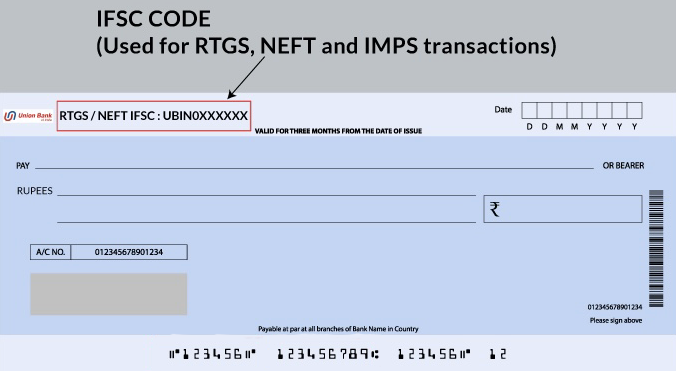
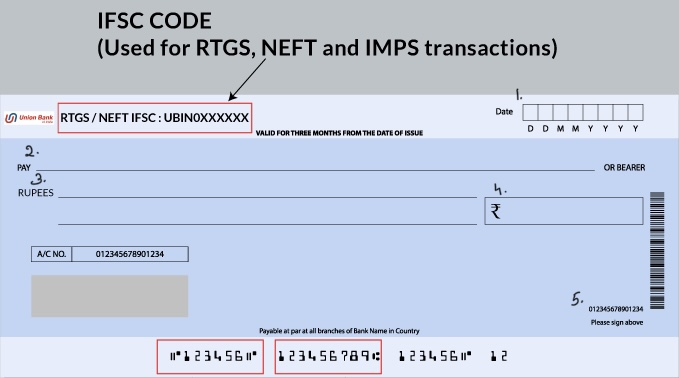
Add files via upload

diff --git a/sketch.js b/sketch.js
@@ -1,5 +1,10 @@
 var gameState = 0
 var input1
+var input2
+var input3
+var input4
+var input5
+var YesOrNo
 function preload() {
   background1 = loadImage("Images/backgroundImage1.jpg")
   startButtonImage = loadImage("Images/StartButton.png")
@@ -44,8 +49,29 @@ function setup() {
   unfilledCheque.addImage(unfilledChequeImage)
   unfilledCheque.visible = false
 
- 
+  input1 = createInput("1.")
+  input1.position(750, 100)
+  input1.hide()
 
+  input2 = createInput("2.")
+  input2.position(750, 200)
+  input2.hide()
+
+  input3 = createInput("3.")
+  input3.position(750, 300)
+  input3.hide()
+
+  input4 = createInput("4.")
+  input4.position(750, 400)
+  input4.hide()
+
+  input5 = createInput("5.")
+  input5.position(750, 500)
+  input5.hide()
+
+  YesOrNo = createInput("Yes Or No")
+  YesOrNo.position(550, 100)
+  YesOrNo.hide()
 }
 
 function draw() {
@@ -82,17 +108,24 @@ console.log(gameState)
   stroke("pink")
   textFont("Curlz MT")
   textStyle(BOLDITALIC)
-  text("Come on!! Let's learn how to fill a cheque", 250, 100)
+  text("Come on!! Let's learn how to fill a cheque  ", 250, 100)
   next.visible = true
   filledCheque.visible = true
   next2.visible = false
   unfilledCheque.visible = false
-    
+  back.visible = false
+  input1.hide()
+  input2.hide()
+  input3.hide()
+  input4.hide()
+  input5.hide()
+  YesOrNo.hide()
+
+  
+  
 }
 
 if(mousePressedOver(next) && gameState === 1) {
-  input1 = createInput("1.")
-  input1.position(500, 500)
   
   gameState = 2;
  
@@ -108,6 +141,12 @@ if(gameState === 2) {
   next2.visible = true
   back2.visible = false
   unfilledCheque.visible = true
+  input1.show()
+  input2.show()
+  input3.show()
+  input4.show()
+  input5.show()
+  YesOrNo.hide()
   textSize(35) 
   fill("black")
   strokeWeight(2)
@@ -126,20 +165,27 @@ if(gameState === 2) {
    back.visible = false
    next2.visible = false
    input1.hide()
+   input2.hide()
+   input3.hide()
+   input4.hide()
+   input5.hide()
+   YesOrNo.show()
+
    textSize(45) 
    fill("black")
    strokeWeight(2)
    stroke("pink")
    textFont("Curlz MT")
    textStyle(BOLDITALIC)
-   text("Was it fun??!! ", 600, 70)
+   text("Was it fun??!! ", 500, 70)
    textSize(45) 
    fill("black")
    strokeWeight(2)
    stroke("pink")
    textFont("Curlz MT")
    textStyle(BOLDITALIC)
-   text("Correct answers \n 1. \n 2. \n 3. \n 4. \n 5.", 550, 250)
+   text("Correct answers \n 1. Today's date (13/04/2021) \n 2. Name of  person receving  money (Ramesh Kumar) \n 3. Amount giving to the other person in word (Ten Tousands only) \n 4.Amount giving in numbers(10,000) \n 5. Your signature (Ramesh Kumar)", 50, 200)
+   
  }
  if(mousePressedOver(back)) {
    gameState = 1
